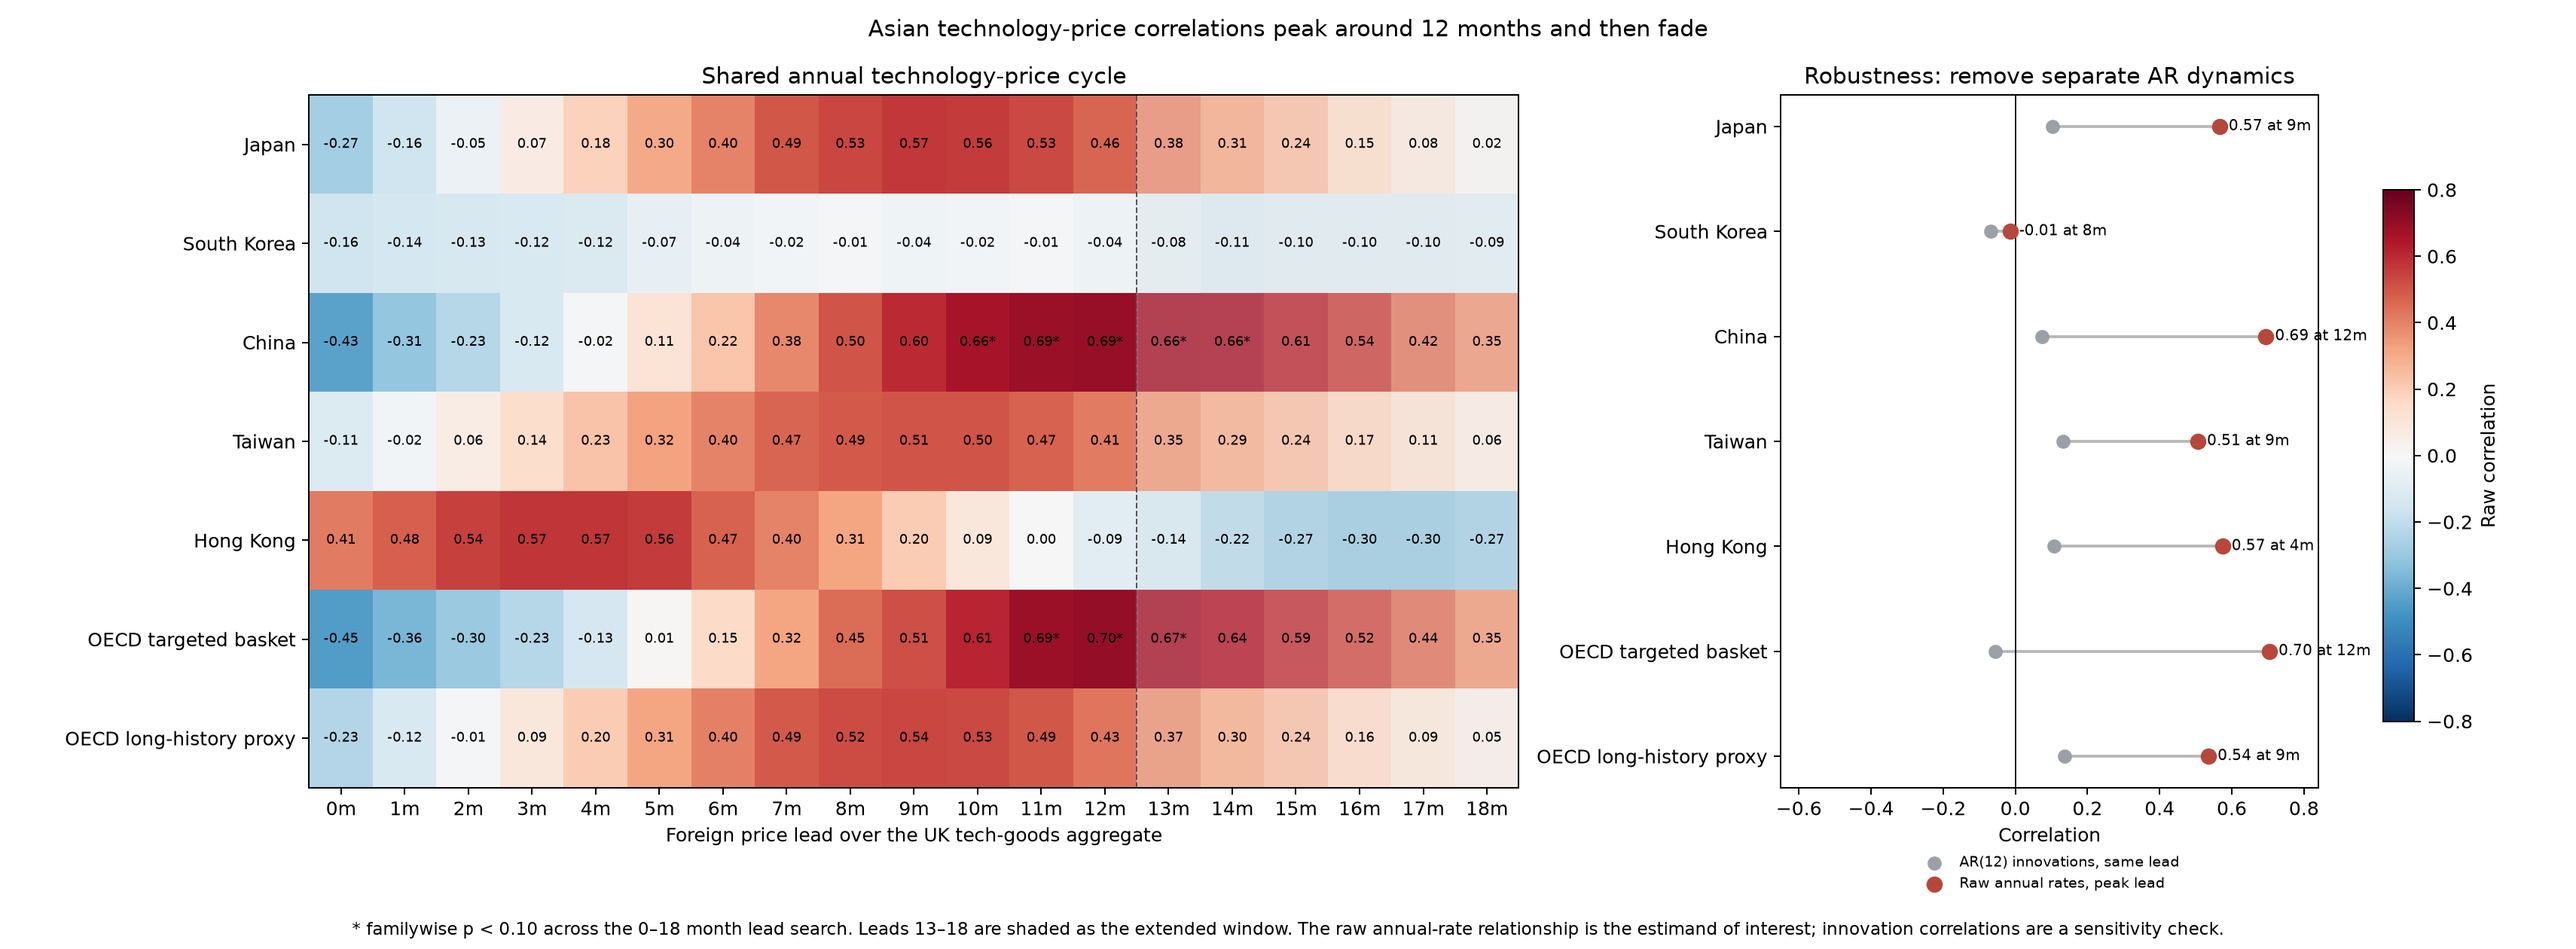
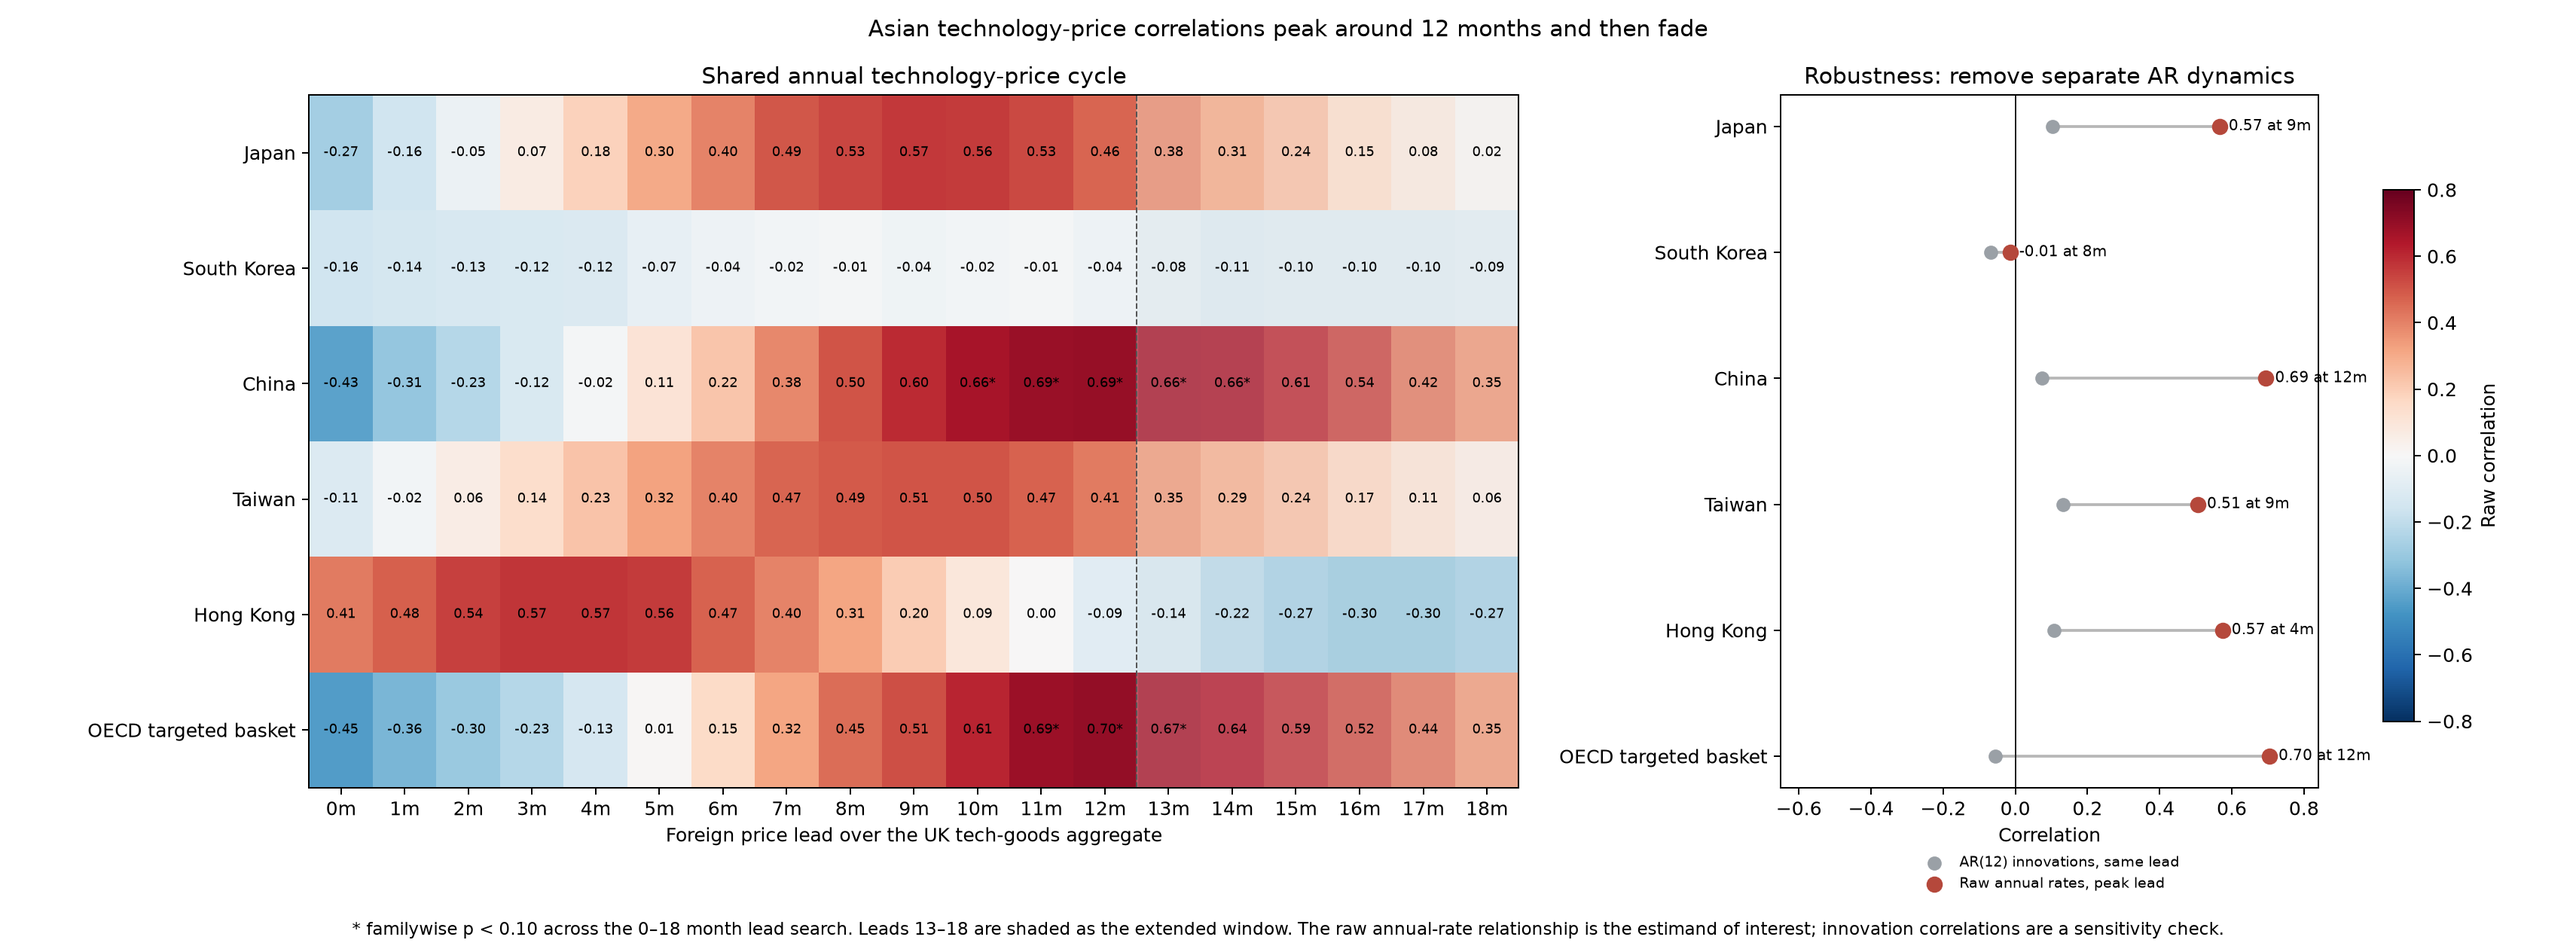
Remove long-history proxy from correlation chart

diff --git a/src/uk_tech_prices/reporting.py b/src/uk_tech_prices/reporting.py
@@ -748,7 +748,11 @@ def save_correlation_method_chart(
 ) -> None:
     correlations = pd.read_csv(PROCESSED_DIR / source_filename)
     familywise_column = f"familywise_p_0_{max_lead}"
-    candidates = list(REPRESENTATIVE_ASIAN_SERIES)
+    candidates = [
+        candidate
+        for candidate in REPRESENTATIVE_ASIAN_SERIES
+        if candidate != "oecd_asia_c26_bls_gbp_12m_pct"
+    ]
     selected = correlations.loc[
         correlations["target"].eq("ex_games_12m_pct")
         & correlations["period"].eq("full")
